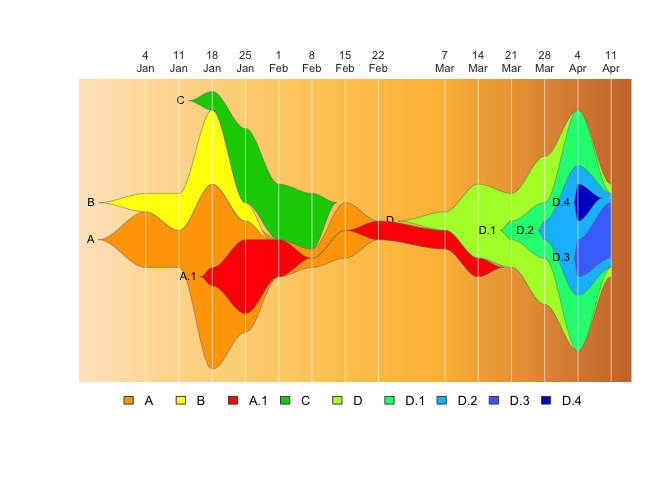
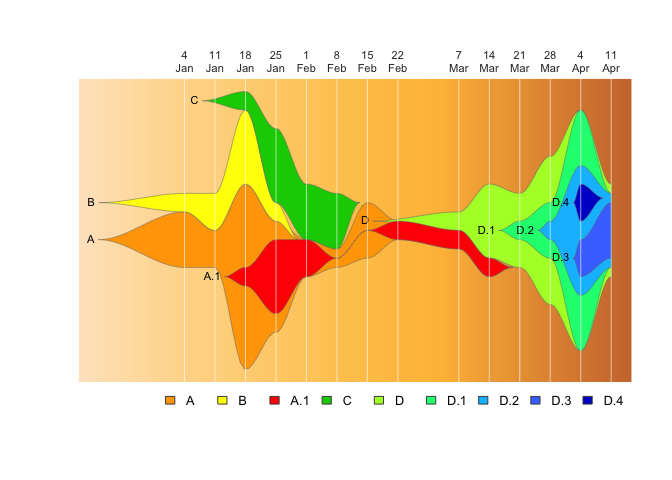
README update to remove pad.left confusion

Changed region(s): [[0.1562, 0.0938, 0.9062, 0.7812], [0.1875, 0.8125, 0.9375, 0.8438], [0.1875, 0.125, 0.2188, 0.1562]]

diff --git a/README.md b/README.md
@@ -159,7 +159,7 @@ epifish_output <- epifish::build_epifish( sample_df, parent_df=parent_df, colour
 Then use the fishplot package to generate a fishplot:
 
 ``` r
-fishplot::fishPlot(epifish_output$fish, pad.left=0.1, shape="spline", 
+fishplot::fishPlot(epifish_output$fish, shape="spline", 
                    vlines=epifish_output$timepoints, vlab=epifish_output$timepoints)
 fishplot::drawLegend(epifish_output$fish, nrow=1)
 ```
@@ -173,7 +173,7 @@ independent, you don’t need those dataframes:
 epifish_output <- epifish::build_epifish( sample_df )
 #> The maximum sample count per timepoint (height of Y-axis) is:  15
 
-fishplot::fishPlot(epifish_output$fish, pad.left=0.1, shape="spline", 
+fishplot::fishPlot(epifish_output$fish, shape="spline", 
                    vlines=epifish_output$timepoints, vlab=epifish_output$timepoints)
 fishplot::drawLegend(epifish_output$fish, nrow=1)
 ```
@@ -194,7 +194,7 @@ epifish_output <- epifish::build_epifish(sample_df, colour_df=colour_df, min_clu
 #> WARNING: some clusters in colour list not found in data: B, D.1, D.2, D.3, D.4
 #> The maximum sample count per timepoint (height of Y-axis) is:  15
 
-fishplot::fishPlot(epifish_output$fish, pad.left=0.1, shape="spline", vlines=epifish_output$timepoints, vlab=epifish_output$timepoints)
+fishplot::fishPlot(epifish_output$fish, shape="spline", vlines=epifish_output$timepoints, vlab=epifish_output$timepoints)
 fishplot::drawLegend(epifish_output$fish, nrow=1)
 ```
 
@@ -1303,7 +1303,7 @@ epifish_output <- epifish::build_epifish( sample_df, parent_df, colour_df, timep
 #> adding child  A.1  to parent  A 
 #> The maximum sample count per timepoint (height of Y-axis) is:  15
 
-fishplot::fishPlot(epifish_output$fish, pad.left=0.1, shape="spline", 
+fishplot::fishPlot(epifish_output$fish, shape="spline", 
                    vlines=epifish_output$timepoints, vlab=epifish_output$timepoint_labels)
 fishplot::drawLegend(epifish_output$fish, nrow=1)
 ```
@@ -1343,7 +1343,7 @@ epifish_output <- epifish::build_epifish( sample_df, parent_df, colour_df, timep
 #> The maximum sample count per timepoint (height of Y-axis) is:  38
 
 #use "polygon" shape here as "spline" and "bezier" have some issues...
-fishplot::fishPlot(epifish_output$fish, pad.left=0.1, shape="polygon", 
+fishplot::fishPlot(epifish_output$fish, shape="polygon", 
                    vlines=epifish_output$timepoints, vlab=epifish_output$timepoint_labels)
 fishplot::drawLegend(epifish_output$fish, nrow=1, xpos=0.7)
 ```
@@ -1383,8 +1383,7 @@ vlines <- epifish_output$timepoints[c(TRUE, FALSE)]
 vlabs  <- epifish_output$timepoint_labels[c(TRUE, FALSE)]
 
 #plot
-fishplot::fishPlot(epifish_output$fish, pad.left=0.1, shape="spline", 
-                   vlines=vlines, vlab=vlabs)
+fishplot::fishPlot(epifish_output$fish, shape="spline", vlines=vlines, vlab=vlabs)
 ```
 
 <img src="man/figures/README-unnamed-chunk-21-1.png" width="100%" />
@@ -1397,7 +1396,7 @@ so it doesn’t overlap):
 vlines <- c((4/7), epifish_output$timepoints)
 vlabs <- c("1\nJan", epifish_output$timepoint_labels)
 
-fishplot::fishPlot(epifish_output$fish, pad.left=0.1, shape="spline", 
+fishplot::fishPlot(epifish_output$fish, shape="spline", 
                    vlines=vlines, vlab=vlabs, cex.vlab=0.5)
 ```
 
@@ -1409,11 +1408,22 @@ epidemiological story, with red lines:
 ``` r
 vlines <- c((4/7), 3, 8.5, 14)
 vlabs <- c("first\ncases", "wave 1", "quarantine\nbreach", "wave 2")
-fishplot::fishPlot(epifish_output$fish, pad.left=0.1, shape="spline", 
+
+fishplot::fishPlot(epifish_output$fish, shape="spline", 
                    vlines=vlines, vlab=vlabs, col.vline="red")
 ```
 
 <img src="man/figures/README-unnamed-chunk-23-1.png" width="100%" />
+
+We can also ajust how far “back in time” clusters appear to begin using
+fishplot’s `pad.left` value:
+
+``` r
+fishplot::fishPlot(epifish_output$fish, pad.left=0.4, shape="spline", 
+                   vlines=vlines, vlab=vlabs, col.vline="red")
+```
+
+<img src="man/figures/README-unnamed-chunk-24-1.png" width="100%" />
 
 ### Control legend spacing
 
@@ -1427,11 +1437,11 @@ space between the colour box and the text (larger = more space)
 spacing:**
 
 ``` r
-fishplot::fishPlot(epifish_output$fish, pad.left=0.1, shape="spline", vlines=epifish_output$timepoints, vlab=epifish_output$timepoint_labels)
+fishplot::fishPlot(epifish_output$fish, shape="spline", vlines=epifish_output$timepoints, vlab=epifish_output$timepoint_labels)
 epifish::drawLegend2(epifish_output$fish, nrow=2, widthratio=0.3, xsp=0.2)
 ```
 
-<img src="man/figures/README-unnamed-chunk-25-1.png" width="100%" />
+<img src="man/figures/README-unnamed-chunk-26-1.png" width="100%" />
 
 ## Citation:
 
